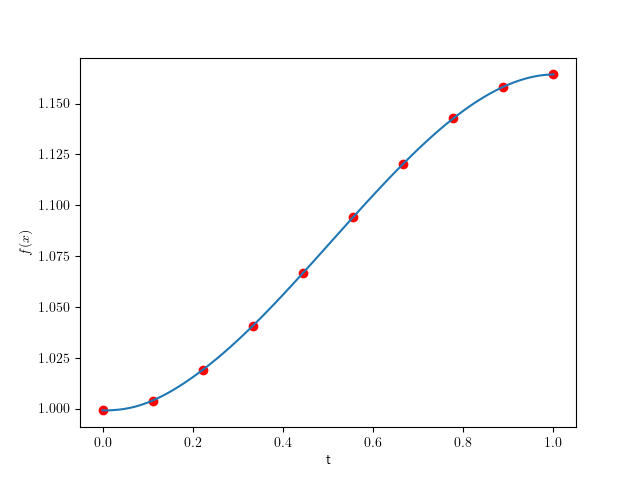
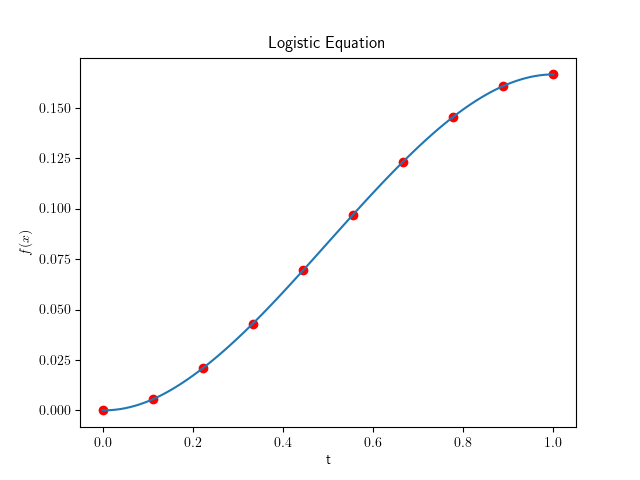
changed config for the ho and added the data to data folder

diff --git a/Harmonic_Oscilator/main.py b/Harmonic_Oscilator/main.py
@@ -102,8 +102,8 @@ if __name__ == "__main__":
     set_seed(42)
 
     # loading the training data on the boundary
-    x_data = np.loadtxt("Harmonic_Oscilator/x_data.csv")
-    y_data = np.loadtxt("Harmonic_Oscilator/y_data.csv")
+    x_data = np.loadtxt("Harmonic_Oscilator/data/x_data.csv")
+    y_data = np.loadtxt("Harmonic_Oscilator/data/y_data.csv")
     x_u = torch.tensor(x_data, requires_grad=True).reshape(x_data.shape[0], 1)
     y_u = torch.tensor(y_data, requires_grad=True).reshape(x_data.shape[0], 1)
     

diff --git a/Logistic/main.py b/Logistic/main.py
@@ -131,5 +131,6 @@ if __name__ == "__main__":
     ax.plot(t_u.detach().numpy(), f_final.detach().numpy(), label="NN final solution")
     plt.xlabel(r't')
     plt.ylabel(r'$f(x)$')
+    plt.title("Logistic Equation")
     plt.savefig("Logistic/figures/logistic_pinn.png")
     plt.show()
